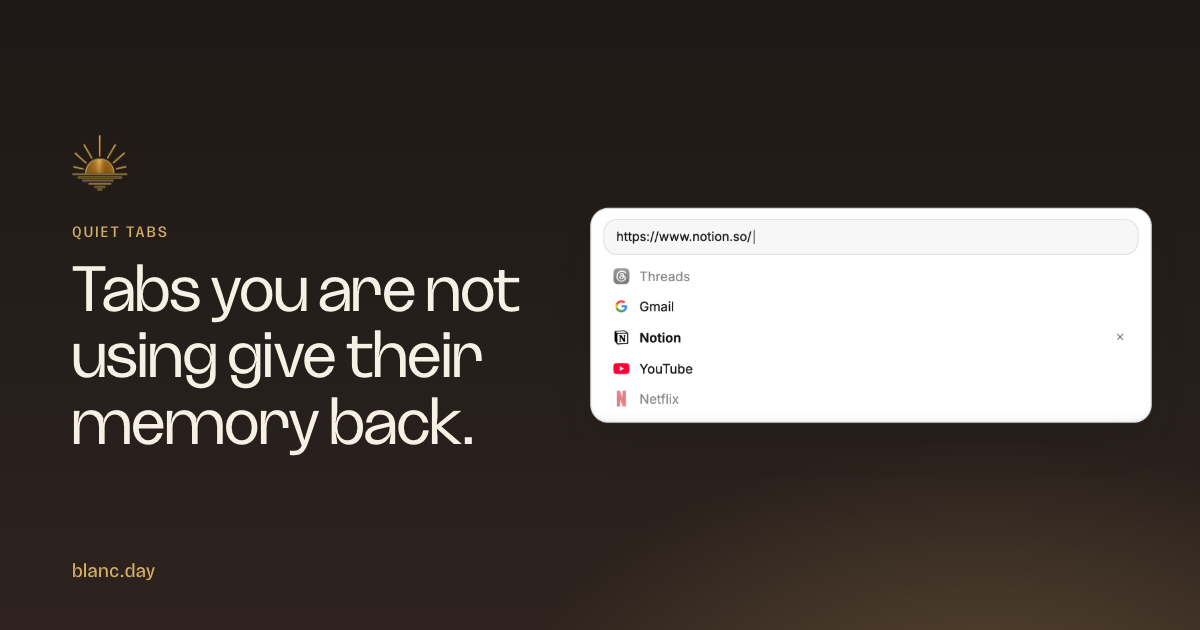
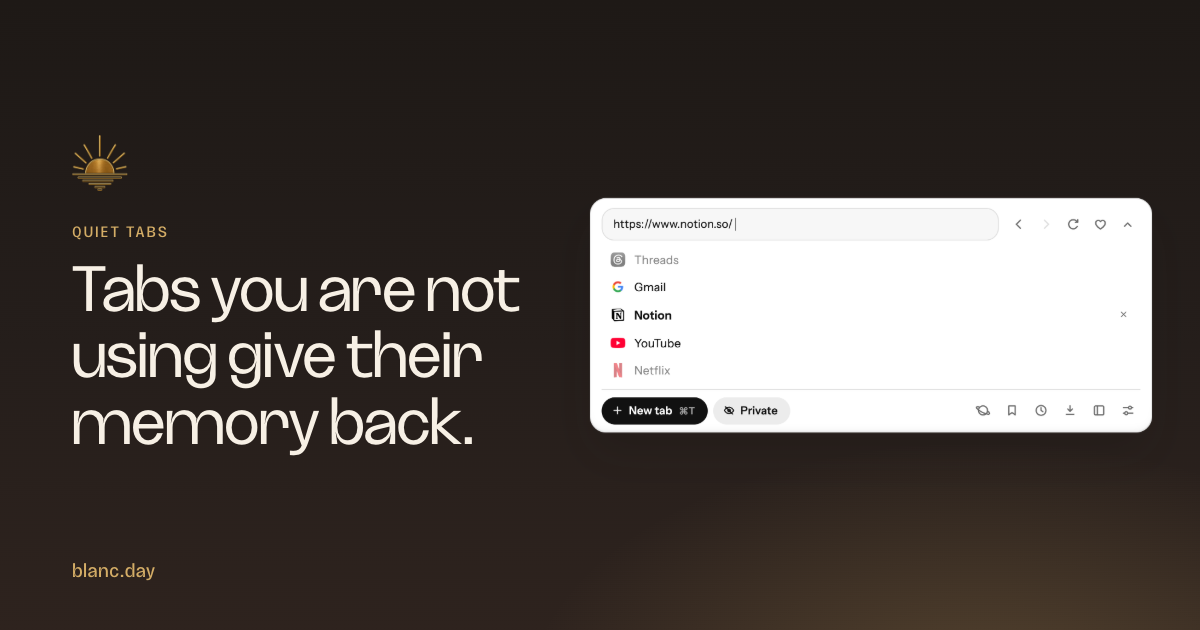
Draw the site's Island figures from the v1.36.0 app (#902)
The coded Island replica on the feature pages, and the nine share cards
rendered from it, still showed the app before v1.35.0 and v1.36.0.

- Text is the app's Instrument Sans at width 98 and +0.01em, declared once
  in BaseLayout from the app's own file; counts and key caps stay Inter.
  Untyped replica text no longer inherits the page's Blubird.
- Open panels carry the app's back/forward/reload/favorite/collapse
  buttons and its footer (New tab, Private, and the six icon buttons) in
  place of an invented "esc to dismiss" hint line. The footer is one row.
- Slash commands sit in the app's chip; the made-up "slash commands"
  heading is gone; section heads are sentence case (Pinned, Social, Watch).
- Sync figures show another device in the Other devices drawer, with its
  name, tab count and age, as v1.36.0 does.
- Slash-command hints and descriptions come from copy/messages/en.json.
  They moved there in F44 and every hint on the command palette page and
  its Support guide has been blank since; a unit test now guards it.
- Blanc is desktop only, so a narrow figure shows the same desktop drawing
  scaled down instead of shedding the pill's buttons or reflowing.

Changed region(s): [[0.4933, 0.3016, 0.9558, 0.6937]]

diff --git a/site/src/styles/site.css b/site/src/styles/site.css
@@ -12,6 +12,10 @@
   color-scheme: light;
   --font-ui: "Inter Variable", "Inter", "Inter Fallback", -apple-system, "Segoe UI Variable", "Segoe UI", system-ui, sans-serif;
   --font-mono: var(--font-ui);
+  /* Drawings of the app's own UI use its face: Instrument Sans at width 98
+     and +0.01em, declared by BaseLayout from the app's file. Counts and key
+     caps stay Inter, as in the app. */
+  --font-app: "Instrument Sans", var(--font-ui);
   /* Shortcut glyphs retain the native system font. */
   --font-kbd: -apple-system, BlinkMacSystemFont, "Segoe UI", sans-serif;
   --radius: 6px;
@@ -161,6 +165,7 @@ a { color: inherit; }
    the exact website-nav shadow now shipped by Blanc. */
 .demo-island {
   position: absolute; top: 20px; left: 50%; transform: translateX(-50%); z-index: 5; white-space: nowrap;
+  font-family: var(--font-app); font-variation-settings: "wdth" 98; letter-spacing: 0.01em;
   --rim-panel:
     inset 0 1px 0 rgba(255,255,255,0.55),
     inset 0 -6px 10px -8px rgba(14,14,14,0.12),
@@ -191,6 +196,10 @@ a { color: inherit; }
    rather than sliding away from it, and comes back the moment the panel has
    finished shrinking into its place. */
 .demo-island.open .pill { opacity: 0; pointer-events: none; }
+/* Chromium resets letter-spacing on form controls, as the app notes. */
+.demo-island :is(button, input) { letter-spacing: inherit; }
+/* Counts and key caps keep Inter without the tracking, as in the app. */
+.demo-island :is(.shield-count, .pill-slash, .sec-head .count:not(.ago), .trow .kbd, .trow .enter, .foot-kbd) { font-family: var(--font-ui); letter-spacing: 0; }
 
 /* Pill dots: standalone pins followed by the active section, with spacing as
    their only separator and one window-wide +N — the app's real presentation. */
@@ -214,7 +223,7 @@ a { color: inherit; }
 
 .demo-island .pill-fav { width: calc(16px / var(--pill-zoom)); height: calc(16px / var(--pill-zoom)); border-radius: 4px; background-color: transparent; background-size: cover; background-position: center; flex: 0 0 auto; }
 /* Inter, not mono, since 1.1.0 — the URL is read, not typed at. */
-.demo-island .domain { flex: 0 1 auto; min-width: 0; overflow: hidden; text-overflow: ellipsis; font-family: var(--font-ui); font-size: calc(12.5px / var(--pill-zoom)); font-weight: 400; }
+.demo-island .domain { flex: 0 1 auto; min-width: 0; overflow: hidden; text-overflow: ellipsis; font-family: var(--font-app); font-size: calc(12.5px / var(--pill-zoom)); font-weight: 400; }
 
 /* Blanc Blocker. The app draws a 16px shield inside a 24px circle, cut edge to
    edge by the diagonal from Blanc's own mark, with the blocked count lifted out
@@ -224,7 +233,7 @@ a { color: inherit; }
    across the shield. */
 .demo-island .shield { position: relative; display: inline-flex; align-items: center; justify-content: center; width: 24px; height: 24px; border-radius: 50%; color: var(--text); flex: 0 0 auto; }
 .demo-island .shield svg { display: block; width: 16px; height: 16px; fill: none; stroke: currentColor; stroke-width: 1.4; stroke-linecap: round; stroke-linejoin: round; }
-.demo-island .shield-count { position: absolute; top: 1.25px; left: 16.5px; display: flex; align-items: center; justify-content: center; min-width: 10px; height: 10px; padding: 0 2.5px; border-radius: 999px; background: var(--accent); box-shadow: 0 0 0 1.5px var(--surface-raised); color: var(--surface-raised); font-family: var(--font-mono); font-size: 7.5px; }
+.demo-island .shield-count { position: absolute; top: 1.25px; left: 16.5px; display: flex; align-items: center; justify-content: center; min-width: 10px; height: 10px; padding: 0 2.5px; border-radius: 999px; background: var(--accent); box-shadow: 0 0 0 1.5px var(--surface-raised); color: var(--surface-raised); font-size: 7.5px; }
 .demo-island .shield-count:empty { display: none; }
 /* Protected but nothing blocked here yet: a quiet landmark, not a badge. */
 .demo-island .shield-quiet { color: var(--text-dim); }
@@ -236,7 +245,7 @@ a { color: inherit; }
 .demo-island .pill-shortcuts { display: flex; align-items: center; gap: calc(4px / var(--pill-zoom)); flex: 0 0 auto; }
 .demo-island .pill-slash,
 .demo-island .pill-shortcut { width: 22px; height: 22px; display: inline-flex; align-items: center; justify-content: center; padding: 0; border: 0; border-radius: calc(5px / var(--pill-zoom)); color: var(--text-dim); background: transparent; flex: 0 0 auto; position: relative; cursor: pointer; }
-.demo-island .pill-slash { font-family: var(--font-mono); font-size: calc(10px / var(--pill-zoom)); line-height: 1; }
+.demo-island .pill-slash { font-size: calc(10px / var(--pill-zoom)); line-height: 1; }
 .demo-island .pill-slash::before,
 .demo-island .pill-shortcut::before { content: ""; position: absolute; width: calc(18px / var(--pill-zoom)); height: calc(17px / var(--pill-zoom)); border: 1px solid var(--border); border-radius: calc(5px / var(--pill-zoom)); pointer-events: none; }
 .demo-island .pill-shortcut svg { width: calc(11px / var(--pill-zoom)); height: calc(11px / var(--pill-zoom)); fill: none; stroke: currentColor; stroke-width: 1.5; stroke-linecap: round; }
@@ -265,7 +274,7 @@ a { color: inherit; }
 @media (prefers-reduced-motion: reduce) {
   .demo-island .domain.placeholder { animation: none; background-image: none; -webkit-text-fill-color: currentColor; color: color-mix(in srgb, var(--text) 65%, var(--text-dim)); }
 }
-.demo-island .priv-chip { display: none; align-items: center; gap: 5px; font-family: var(--font-mono); font-size: 11.5px; padding: 2px 5px 2px 9px; border-radius: 999px; border: 1px dashed var(--accent); color: var(--accent); }
+.demo-island .priv-chip { display: none; align-items: center; gap: 5px; font-size: 11.5px; padding: 2px 5px 2px 9px; border-radius: 999px; border: 1px dashed var(--accent); color: var(--accent); }
 .demo-island .priv-chip svg { display: block; width: 9px; height: 9px; fill: none; stroke: currentColor; stroke-width: 2; stroke-linecap: round; stroke-linejoin: round; }
 .demo-island.private .priv-chip { display: flex; }
 .demo-island.private .domain, .demo-island.private .shield, .demo-island.private .pill-fav, .demo-island.private .pnav, .demo-island.private .psep, .demo-island.private .pacts { display: none; }
@@ -288,34 +297,42 @@ a { color: inherit; }
 /* The 36px × 14px address field matches the shipped expanded Island. No accent
    ring: the panel only opens with this input already focused, so a ring would
    restate what the caret shows. */
-.demo-island .field { flex: 1 1 auto; min-width: 0; height: 36px; border-radius: 14px; border: 1px solid var(--border); background: var(--surface); display: flex; align-items: center; padding: 0 12px; font-family: var(--font-ui); font-size: 12.5px; gap: 1px; transition: background 220ms ease; }
+.demo-island .field { flex: 1 1 auto; min-width: 0; height: 36px; border-radius: 14px; border: 1px solid var(--border); background: var(--surface); display: flex; align-items: center; padding: 0 12px; font-size: 12.5px; gap: 1px; transition: background 220ms ease; }
 .demo-island .typed { color: var(--text); }
 .demo-island .field .caret { width: 1px; height: 14px; background: var(--accent); opacity: 0.65; margin-left: 1px; animation: demo-blink 1s step-end infinite; }
 @keyframes demo-blink { 50% { opacity: 0; } }
 
-/* Expanded-panel input-row actions (back/forward/reload/heart/dismiss) — quiet
-   rounded-square ghost buttons trailing the field, mirroring the app's panel. */
+/* Expanded-panel input-row actions (back/forward/reload/favorite/collapse):
+   quiet ghost buttons trailing the field, as the app's .panel-actions draws
+   them (components/IslandPanelActions.astro). */
+.demo-island .panel-actions { display: flex; align-items: center; gap: 2px; flex: 0 0 auto; }
 .demo-island .abtn { width: 28px; height: 28px; flex: 0 0 auto; display: inline-flex; align-items: center; justify-content: center; padding: 0; border: none; border-radius: var(--radius); background: transparent; color: var(--text-dim); cursor: pointer; }
-.demo-island .abtn:disabled { color: var(--border); cursor: default; }
-.demo-island .abtn svg { width: 17px; height: 17px; fill: none; stroke: currentColor; stroke-width: 1.4; stroke-linecap: round; stroke-linejoin: round; }
-.demo-island .abtn.heart.on { color: var(--accent); }
-.demo-island .abtn.heart.on svg { fill: var(--accent); stroke: var(--accent); }
+.demo-island .abtn.off { color: var(--border); cursor: default; }
+.demo-island .abtn svg { width: 16px; height: 16px; fill: none; stroke: currentColor; stroke-width: 1.5; stroke-linecap: round; stroke-linejoin: round; }
 
-/* Panel footer action bar: new-tab / private launchers on the left, quiet
-   quick-access icons (favorites/history/downloads/settings) on the right —
-   mirrors the app's #islandFooter (launchers moved out of the tab list). */
-.demo-island .foot-bar { display: flex; align-items: center; gap: 4px; margin-top: 6px; padding-top: 8px; border-top: 1px solid var(--border); }
-/* The launchers stopped being two matching ghosts in 1.1.0: "new tab" is the
-   primary action and reads as a solid accent pill, while private is a dashed
-   ghost — dashed being the marker for private everywhere else in the chrome,
-   and a second solid would read as a second primary action. */
-.demo-island .foot-new { display: inline-flex; align-items: center; gap: 5px; height: 28px; padding: 0 12px; flex: 0 0 auto; border-radius: 999px; border: 1px solid var(--accent); background: var(--accent); color: var(--surface-raised); font-family: var(--font-ui); font-size: 12px; font-weight: 500; white-space: nowrap; }
+/* Panel footer, as the app's #islandFooter (components/IslandFooter.astro):
+   New tab is the panel's one solid accent pill, Private the soft secondary
+   pill, Other devices a plain text toggle; the quiet icon buttons sit right.
+   The footer is always one row at the app's own size: the icons never drop
+   onto a row of their own, and a small screen scales the whole panel down
+   (see .island-figure below) rather than drawing a layout Blanc never has. */
+.demo-island .foot-bar { display: flex; flex-wrap: nowrap; align-items: center; gap: 4px; margin-top: 6px; padding-top: 8px; border-top: 1px solid var(--border); }
+.demo-island :is(.foot-launchers, .foot-tools) { display: flex; align-items: center; gap: 4px; }
+.demo-island .foot-launchers { flex: 0 1 auto; min-width: 0; }
+.demo-island .foot-tools { flex: 0 0 auto; margin-left: auto; }
+.demo-island .foot-new { display: inline-flex; align-items: center; gap: 6px; height: 30px; padding: 0 13px 0 10px; flex: 0 0 auto; border-radius: 999px; border: 1px solid transparent; background: var(--accent); color: var(--surface-raised); font-size: 12.5px; font-weight: 550; white-space: nowrap; }
 .demo-island .foot-new svg { width: 13px; height: 13px; fill: none; stroke: currentColor; stroke-width: 1.5; stroke-linecap: round; stroke-linejoin: round; }
-.demo-island .foot-new.private { margin-left: 4px; background: none; color: var(--text-dim); border: 1px dashed var(--text-dim); }
-.demo-island .foot-kbd { font-family: var(--font-kbd); font-size: 11px; opacity: 0.55; margin-left: 2px; }
-.demo-island .foot-spacer { flex: 1 1 auto; }
-.demo-island .foot-act { width: 28px; height: 28px; flex: 0 0 auto; display: inline-flex; align-items: center; justify-content: center; padding: 0; border: none; border-radius: var(--radius); background: transparent; color: var(--text-dim); }
+.demo-island .foot-new.private { margin-left: 2px; background: var(--accent-dim); color: var(--text); }
+.demo-island .foot-new.devices { margin-left: 4px; padding: 0 6px; border-radius: 8px; background: none; color: var(--text-dim); }
+.demo-island .foot-new.devices.open { color: var(--text); }
+.demo-island .foot-new.devices .devices-caret { width: 10px; height: 10px; }
+.demo-island .foot-new.devices.open .devices-caret { transform: rotate(180deg); }
+.demo-island .foot-kbd { font-size: 11px; opacity: 0.6; margin-left: 1px; }
+.demo-island .foot-act { width: 28px; height: 28px; flex: 0 0 auto; display: inline-flex; align-items: center; justify-content: center; padding: 0; border: none; border-radius: 8px; background: transparent; color: var(--text-dim); }
 .demo-island .foot-act svg { width: 15px; height: 15px; fill: none; stroke: currentColor; stroke-width: 1.5; stroke-linecap: round; stroke-linejoin: round; }
+.demo-island .foot-act.ws svg { width: 17px; height: 17px; stroke-width: 2; }
+/* The Other devices drawer, between the tab list and the footer. */
+.demo-island .drawer { margin-top: 6px; padding-top: 2px; border-top: 1px solid var(--border); }
 
 .demo-island .list { margin-top: 6px; display: flex; flex-direction: column; min-height: 0; max-height: 300px; overflow-y: auto; scrollbar-width: none; }
 .demo-island .list::-webkit-scrollbar { display: none; }
@@ -324,10 +341,11 @@ a { color: inherit; }
 .demo-island .list.command-directory .trow { flex: 0 0 auto; scroll-snap-align: none; }
 
 /* Section headers and named-group bands mirror the live panel. */
-.demo-island .sec-head { display: flex; align-items: center; gap: 8px; padding: 8px 10px 3px; font-family: var(--font-ui); font-size: 11px; color: var(--text-dim); }
+.demo-island .sec-head { display: flex; align-items: center; gap: 8px; padding: 8px 10px 3px; font-size: 11px; color: var(--text-dim); }
 .demo-island .sec-head .ico { width: 12px; height: 12px; flex: 0 0 auto; }
 .demo-island .sec-head .caret { width: 10px; height: 10px; flex: 0 0 auto; transform: rotate(90deg); transition: transform 160ms ease; }
 .demo-island .sec-head .count { flex: 0 0 auto; }
+.demo-island .sec-head .ago { margin-left: auto; }
 .demo-island .sec-head .kbd { margin-left: auto; font-family: var(--font-kbd); }
 .demo-island .sec-head.just { animation: rowpulse 1000ms ease; border-radius: var(--radius); }
 .demo-island .group-band { margin: 4px 0; padding: 2px 0 4px; border-radius: 10px; background: var(--surface); }
@@ -346,18 +364,23 @@ a { color: inherit; }
    untouched. 48px per the app: with no domain column left, the fade has to
    carry a title all the way to the row's actions. */
 .demo-island .trow .title {
-  flex: 1 1 auto; min-width: 0; overflow: hidden; white-space: nowrap; font-family: var(--font-ui);
+  flex: 1 1 auto; min-width: 0; overflow: hidden; white-space: nowrap;
   -webkit-mask: linear-gradient(to right, #000 calc(100% - 48px), transparent);
   mask: linear-gradient(to right, #000 calc(100% - 48px), transparent);
 }
 .demo-island .trow .tag,
 .demo-island .trow .kbd,
-.demo-island .trow .enter { font-family: var(--font-mono); font-size: 10.5px; color: var(--text-dim); opacity: 0.7; flex: 0 0 auto; }
+.demo-island .trow .enter { font-size: 10.5px; color: var(--text-dim); opacity: 0.7; flex: 0 0 auto; }
 .demo-island .trow .kbd { margin-left: auto; }
-.demo-island .trow.command .cmd { flex: 0 0 auto; font-family: var(--font-mono); font-size: 12.5px; color: var(--accent); white-space: nowrap; }
-.demo-island .trow.command .hint { flex: 1 1 auto; min-width: 0; overflow: hidden; text-overflow: ellipsis; white-space: nowrap; color: var(--text-dim); }
-.demo-island .trow.folded { color: var(--text-dim); font-family: var(--font-mono); }
-.demo-island .trow .empty { color: var(--text-dim); font-family: var(--font-mono); font-size: 13px; }
+/* Each /command or !code sits in the app's chip (styles.css .island-row .row-cmd). */
+.demo-island .trow.command .cmd {
+  flex: 0 0 auto; padding: 0 7px; border-radius: 6px; background: color-mix(in srgb, var(--text) 7%, transparent);
+  color: var(--text); font-size: 12px; font-weight: 550; line-height: 20px; white-space: nowrap;
+}
+.demo-island .trow.command.hl .cmd { background: color-mix(in srgb, var(--text) 12%, transparent); font-weight: 600; }
+.demo-island .trow.command .hint { flex: 1 1 auto; min-width: 0; overflow: hidden; text-overflow: ellipsis; white-space: nowrap; color: var(--text-dim); font-size: 12.5px; }
+.demo-island .trow.folded { color: var(--text-dim); }
+.demo-island .trow .empty { color: var(--text-dim); font-size: 13px; }
 .demo-island .group-band .trow { border-radius: 0; }
 .demo-island .trow.in-group { padding-left: 28px; }
 .demo-island .trow.quiet { opacity: 0.5; }
@@ -367,30 +390,9 @@ a { color: inherit; }
 .demo-island .row-close svg { width: 13px; height: 13px; fill: none; stroke: currentColor; stroke-width: 1.3; stroke-linecap: round; stroke-linejoin: round; }
 .demo-island .trow.hl .row-close { opacity: 1; }
 
-.demo-island .foot { font-family: var(--font-kbd); font-size: 10.5px; color: var(--text-dim); opacity: 0.7; padding: 8px 10px 2px; white-space: nowrap; }
 
 @media (max-width: 720px) {
   .demo-island:where(:not(#demoIsland)) .panel { width: 86vw; }
-}
-
-/* Compact figures only; the hero keeps its fixed desktop canvas.
-   The full resting pill (~434px) is wider than the stage below
-   ~530px, so it clips at both ends and stops reading as a floating pill.
-   Shed the flanking chrome — back/forward nav, the reload/favorite action
-   cluster, the group name — and keep the core identity (dots, favicon,
-   domain, shield) centered, the way a narrow island sheds chrome. */
-@media (max-width: 560px) {
-  .demo-island:where(:not(#demoIsland)) .pnav,
-  .demo-island:where(:not(#demoIsland)) .pacts,
-  .demo-island:where(:not(#demoIsland)) .psep { display: none; }
-  .demo-island:where(:not(#demoIsland)) .pill { gap: 9px; padding: 0 12px; }
-  .demo-island:where(:not(#demoIsland)) .domain { font-size: calc(12.5px / var(--pill-zoom)); }
-  .demo-island:where(:not(#demoIsland)) .foot-new { width: 28px; padding: 0; justify-content: center; }
-  .demo-island:where(:not(#demoIsland)) .foot-new.private { margin-left: 0; }
-  .demo-island:where(:not(#demoIsland)) .foot-new span { display: none; }
-  /* The panel footer hint is a single nowrap line that overruns the narrow
-     panel — let it wrap and center instead of overflowing off the edge. */
-  .demo-island:where(:not(#demoIsland)) .foot { white-space: normal; text-align: center; }
 }
 
 @media (prefers-reduced-motion: reduce) {
@@ -963,7 +965,8 @@ a:focus-visible, button:focus-visible { outline: 2px solid var(--site-accent); o
    .demo-stage / .demo-island rules above) frozen at one authored state, over a
    real page shot that swaps to the 390px mobile crop under 560px via <picture>.
    Because the pill is CSS rather than a raster, the island stays sharp and
-   legible at every width, and the ≤560px chrome-shedding applies for free.
+   legible at every width. It is always the desktop Island (Blanc is desktop
+   only): a narrow figure scales the drawing, it never reflows or sheds it.
    These rules live at the end of the file so they win over the hero-only
    .demo-stage breakpoints by source order. */
 .island-figure { width: 100%; height: 300px; max-width: none; margin: 0; border: 0; border-radius: 8px; box-shadow: none; }
@@ -989,14 +992,13 @@ a:focus-visible, button:focus-visible { outline: 2px solid var(--site-accent); o
   background: var(--surface-raised);
   box-shadow: 0 18px 36px rgba(14,14,14,0.16);
   color: var(--text);
-  font-family: var(--font-ui);
   font-size: 12.5px;
   line-height: 1.35;
   text-align: left;
   white-space: normal;
 }
 .site-controls-head { display: flex; align-items: flex-start; justify-content: space-between; gap: 12px; }
-.site-controls-head strong { display: block; overflow: hidden; font-family: var(--font-mono); font-size: 12px; font-weight: 400; text-overflow: ellipsis; white-space: nowrap; }
+.site-controls-head strong { display: block; overflow: hidden; font-size: 12px; font-weight: 400; text-overflow: ellipsis; white-space: nowrap; }
 .site-controls-head span:not(.site-controls-switch) { display: block; margin-top: 3px; }
 .site-controls-head b { font-weight: 600; }
 .site-controls-switch { position: relative; display: block; width: 34px; height: 20px; flex: 0 0 auto; border: 1px solid var(--accent); border-radius: 999px; background: var(--accent); }
@@ -1009,8 +1011,18 @@ a:focus-visible, button:focus-visible { outline: 2px solid var(--site-accent); o
    island a full-width box for the centered panel to size against — otherwise
    it shrink-to-fits to zero and the panel collapses to a sliver. */
 .island-figure--panel .demo-island { width: 100%; }
-/* Size the open panel to the figure, not the viewport, so it never clips. */
-.island-figure .demo-island .panel { width: min(560px, 90%); max-height: 420px; }
+/* The open panel is always the app's own 620px layout. Blanc is a desktop
+   browser, so a figure narrower than the panel shows that same drawing scaled
+   down, like a screenshot, never a reflowed narrow version. The steps follow
+   the figure's own width, so the Features page popover scales it too. */
+.island-figure { container: island-figure / inline-size; }
+.island-figure .demo-island .panel { width: 620px; max-height: 420px; }
+@container island-figure (max-width: 660px) { .demo-island .panel { zoom: 0.85; } }
+@container island-figure (max-width: 560px) { .demo-island .panel { zoom: 0.7; } }
+@container island-figure (max-width: 470px) { .demo-island .panel { zoom: 0.6; } }
+@container island-figure (max-width: 400px) { .demo-island .panel { zoom: 0.5; } }
+@container island-figure (max-width: 340px) { .demo-island .panel { zoom: 0.4; } }
+@container island-figure (max-width: 280px) { .demo-island .panel { zoom: 0.36; } }
 /* Figures are decorative: a <span> stands in for the demo's <button>s, so
    mirror the disabled-arrow dimming with a class instead of :disabled. */
 .demo-island .pbtn.off { color: var(--border); }
@@ -1041,15 +1053,6 @@ a:focus-visible, button:focus-visible { outline: 2px solid var(--site-accent); o
 .demo-island .drag-demo .drag-ghost { position: absolute; top: var(--drag-row); left: 0; right: 0; z-index: 2; opacity: 0; background: var(--surface-raised); border-radius: 8px; box-shadow: 0 0 0 1px var(--border), 0 8px 20px -8px rgba(14,14,14,.35); pointer-events: none; }
 .drag-demo .drag-line { position: absolute; top: -1px; left: 10px; right: 10px; z-index: 3; height: 2px; border-radius: 999px; background: var(--accent); opacity: 0; }
 .drag-demo .drag-cursor { position: absolute; top: 0; left: 96px; z-index: 4; width: 20px; height: 26px; opacity: 0; pointer-events: none; filter: drop-shadow(0 2px 3px rgba(14,14,14,0.28)); }
-/* Group bands make this list taller than other panel figures. On phones the
-   shared 316px panel cap would squeeze it and, with the list's overflow
-   visible, push the watch group over the footer, so this panel sizes to its
-   content (rows are fixed-height) and the figure leaves room for the footer
-   hint to wrap onto a third line at 320px. */
-@media (max-width: 640px) {
-  .island-figure--panel.island-figure--drag { height: 384px; }
-  .island-figure.island-figure--drag .demo-island .panel { max-height: none; }
-}
 @media (prefers-reduced-motion: no-preference) {
   .drag-demo { --drag-loop: 7s; }
   .drag-demo .drag-row--second { animation: drag-row-second var(--drag-loop) infinite; }
@@ -1123,15 +1126,10 @@ a:focus-visible, button:focus-visible { outline: 2px solid var(--site-accent); o
 
 @media (max-width: 640px) {
   .island-figure { height: 244px; --fig-strip-h: 49px; }
-  .island-figure--panel { height: 360px; }
+  /* The scaled panel's tallest list still clears the bottom edge. */
+  .island-figure--panel { height: 384px; }
   .island-figure--site-controls { height: 290px; }
   .island-figure--panel.island-figure--quiet { height: 300px; }
-  .island-figure .demo-island .panel { width: 94%; max-height: 316px; }
-  /* The narrow pill has already shed its flanking chrome (≤560px), so it is
-     much smaller — scale it less so it doesn't shrink into illegibility. */
-  .island-figure:not(.island-figure--panel) .demo-island {
-    transform: translateX(-50%) translateY(-50%) scale(0.72);
-  }
 }
 
 /* ---------- vertical-tabs figure: the optional left rail ----------

diff --git a/site/src/styles/bangs.css b/site/src/styles/bangs.css
@@ -1,8 +1,8 @@
 /* /bangs: the try-it stage, the example chips and the directory. The Island
    replica itself is the shared .demo-island markup from site.css; only what
    is new to this page lives here. The drawing of the app is set in the app's
-   Instrument Sans (declared on the page from the app's own file); the page
-   around it, address line and examples included, is the website's Blubird. */
+   Instrument Sans, like every .demo-island; the page around it, address line
+   and examples included, is the website's Blubird. */
 
 /* ---------- hero ---------- */
 .bangs-hero .bangs-jump { margin-top: 18px; }
@@ -19,19 +19,6 @@
 /* The field's border carries focus, since the input itself draws none. */
 .bangs-field:focus-within { border-color: var(--text-dim); }
 .bangs-stage .list.command-directory { max-height: 236px; }
-.bangs-stage .demo-island, .bangs-stage .demo-island * {
-  font-family: "Instrument Sans", var(--font-ui); font-variation-settings: "wdth" 98; letter-spacing: 0.01em;
-}
-/* Counts and key caps stay Inter, as in the app. */
-.bangs-stage .demo-island .count, .bangs-stage .demo-island .enter { font-family: var(--font-ui); font-variation-settings: normal; letter-spacing: 0; }
-/* Each !code sits in the app's chip (styles.css .island-row .row-cmd). */
-.bangs-stage .demo-island .trow.command .cmd {
-  padding: 0 7px; border-radius: 6px; background: color-mix(in srgb, var(--text) 7%, transparent);
-  color: var(--text); font-family: "Instrument Sans", var(--font-ui); font-size: 12px; font-weight: 550; line-height: 20px;
-}
-/* site.css names the replica's field and messages a face of their own. */
-.bangs-stage .demo-island .field, .bangs-stage .demo-island .trow .empty { font-family: "Instrument Sans", var(--font-ui); }
-.bangs-stage .demo-island .trow.command.hl .cmd { background: color-mix(in srgb, var(--text) 12%, transparent); font-weight: 600; }
 .bangs-stage .trow .domain { flex: 0 0 auto; margin-left: auto; color: var(--text-dim); font-size: 11px; }
 /* The Island replica never wraps; these messages are sentences. */
 .bangs-stage .trow .empty { flex: 1 1 auto; min-width: 0; white-space: normal; }

diff --git a/test/unit/site-slash-commands.test.js b/test/unit/site-slash-commands.test.js
@@ -30,6 +30,12 @@ test('the website lists only the slash commands the latest public release ships'
 
   const { releasedSlashCommands } = await import(pathToFileURL(path.join(ROOT, 'site/src/lib/released-slash-commands.mjs')).href);
   assert.deepEqual(releasedSlashCommands.map(entry => entry.command), catalog.filter(command => released.has(command)));
+  // The registry lost its text to the interface catalog in F44, and the site
+  // went on reading it from the registry: every hint on the page was blank.
+  for (const entry of releasedSlashCommands) {
+    assert.ok(entry.hint?.trim(), `${entry.command} has no hint`);
+    if (entry.doc) assert.ok(entry.doc.hint?.trim(), `${entry.doc.command} has no description`);
+  }
   for (const file of ['site/src/pages/features/command-palette.astro', 'site/src/components/guides/command-palette.astro']) {
     const source = read(file);
     assert.match(source, /releasedSlashCommands/, file);

diff --git a/site/CLAUDE.md b/site/CLAUDE.md
@@ -31,12 +31,24 @@ Text (the `html, body` stack and the site's own labels and controls); see
 figures, demo UI, coded illustrations) use the app's face, Instrument Sans at
 width 98 and +0.01em, never Blubird (owner direction, October 17, 2026); its
 `@font-face` comes from the app's own file,
-`src/renderer/pages/instrument-sans-latin-wdth-normal.woff2`, as SpacesDemo,
-ShieldDemo and `/bangs` declare it. Counts and key caps in a mockup stay
-Inter, as in the app. The shared `.demo-island` replica in `site.css` and some
-older figures still draw in Inter, self-hosted via fontsource with a
-metric-matched `Inter Fallback` (also what Blubird falls back to); move them
-to Instrument Sans when you next touch them.
+`src/renderer/pages/instrument-sans-latin-wdth-normal.woff2`, declared once
+for every page by `BaseLayout.astro` (SpacesDemo, ShieldDemo and
+NativeIslandHero also declare it for their shadow roots). Counts and key caps
+in a mockup stay Inter, as in the app. The shared `.demo-island` replica in
+`site.css` draws in it through `--font-app`, so the Island figures on the
+feature pages and the share cards rendered from them follow; Inter stays
+self-hosted via fontsource with a metric-matched `Inter Fallback` (also what
+Blubird falls back to). The `/features` bento tiles' mini UI (`.ui`,
+`.demo-pill` in `features-bento.css`) still draws in Inter.
+**A replica draws only what the released app's code draws** (owner direction,
+October 17, 2026): copy each element, string and icon from
+`src/renderer/overlay.html`, `overlay.js`, `styles.css` and
+`copy/messages/en.json`, and invent no state, text or layout. The open panel's
+action buttons and footer come from `components/IslandPanelActions.astro` and
+`components/IslandFooter.astro`; the footer is one row. Blanc is desktop only,
+so a narrow figure shows the same 620px drawing scaled down (container steps on
+`.island-figure` in `site.css`), never a reflowed, icon-only or chrome-shedding
+"phone" version.
 The display-headings rule at the end of `site.css` is what makes every
 heading display; `test/site/blubird-reach.test.mjs` and
 `test/unit/site-font-fallback.test.js` enforce the faces and the 0 tracking.
